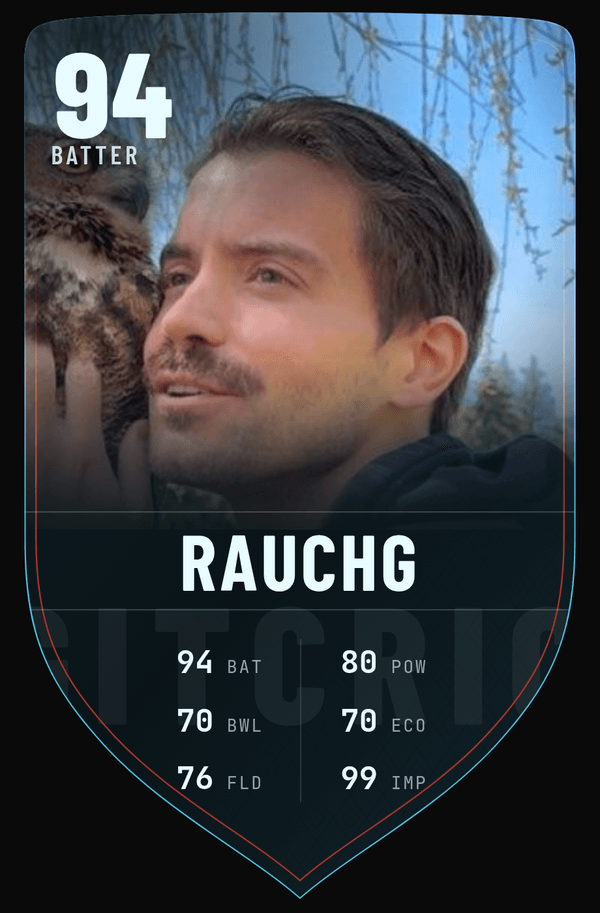
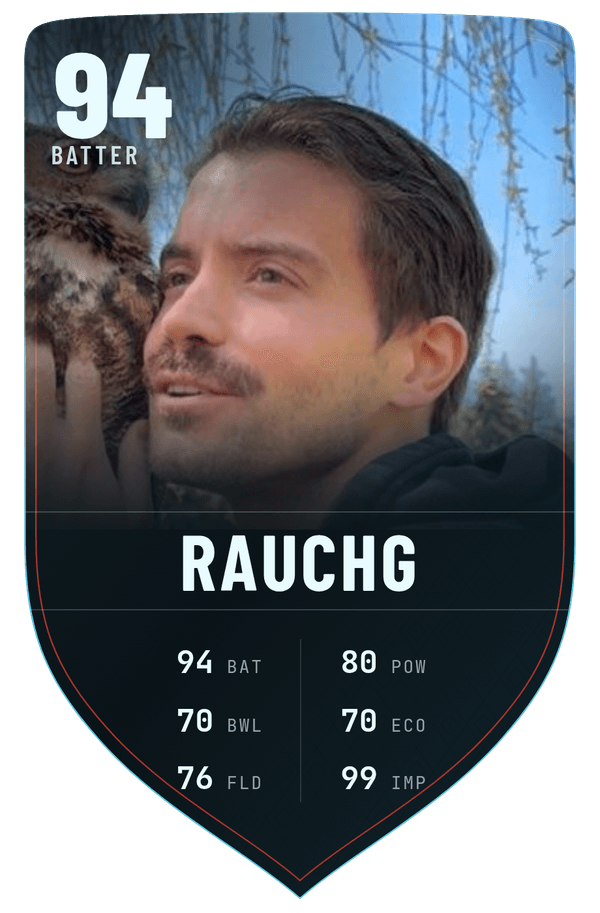
Remove card watermark layer; regenerate README cards with transparent backgrounds
The ghosted lettering behind the stat block was part of the card component, so
it rendered on every live card and the README PNGs merely photographed it.
Removed at source rather than hidden: the <text> node in ShieldBg, its
`watermark` prop, the TRIM_LABEL map that fed it, the .gc-watermark rule and
the comments describing the layer. Nothing else on the card face changed.

It rendered the format (TEST/ODI/T20I/IPL) on cricketer cards, not just
GITCRIC on user cards, so those lose the cue too — deliberately, to keep one
version of the card. No information goes with it: the format is already named
in the page header line above the card ("TEST · 112 matches").

The README PNGs also had an opaque black rectangle around the die-cut shield.
Cause: globals.css sets an explicit html background, and Playwright's
omitBackground only strips the DEFAULT white — an explicit background still
paints, so #0a0a0b was baked into every capture. Now the background is forced
transparent before the shot. Verified per file by sampling pixel (0,0), which
sits outside the shield path: alpha 0 on all five. Same filenames and 600x913
dimensions, so the README needs no path changes.

Changed region(s): [[0.0, 0.0, 1.0, 1.0]]

diff --git a/web/components/PlayerCard.tsx b/web/components/PlayerCard.tsx
@@ -7,7 +7,7 @@ import { Flag } from "../lib/flags";
  * THE CARD — the jewel. A die-cut CREST/SHIELD (our own geometry, not EA's):
  * near-flat top with sloped shoulders, straight sides, a soft point at the base.
  * The shield path is drawn as a layered SVG background (colorway gradient →
- * tone-on-tone filigree → ghosted watermark → inset frame) AND used as a
+ * tone-on-tone filigree → inset frame) AND used as a
  * clip-path so nothing renders outside the crest. FUT layout grammar on top:
  * huge OVR, role and flag over a full-bleed portrait; a surname band (plus a
  * franchise caption on IPL); six stats in two tight columns. Format, matches and
@@ -15,7 +15,6 @@ import { Flag } from "../lib/flags";
  */
 const LEFT = ["BAT", "BWL", "FLD"] as const;
 const RIGHT = ["POW", "ECO", "IMP"] as const;
-const TRIM_LABEL: Record<string, string> = { you: "GITCRIC", test: "TEST", odi: "ODI", t20i: "T20I", ipl: "IPL" };
 
 // ── crest geometry (viewBox 540 × 820) ───────────────────────────────────────
 // Near-flat top w/ sloped shoulders → straight sides → soft point at the base.
@@ -49,7 +48,6 @@ export function PlayerCard({
   const byKey = Object.fromEntries(face.stats.map((s) => [s.key, s.value]));
   const monogram = face.surname.slice(0, 2);
   const portrait = face.photoFile ?? avatarUrl ?? null;
-  const watermark = TRIM_LABEL[face.trim] ?? "GITCRIC";
 
   // Cricketer: override the tier-finish vars with the team colorway (inline
   // style wins over the data-tier/data-trim CSS). YOU: keep the tier finish.
@@ -71,8 +69,8 @@ export function PlayerCard({
       style={cwStyle}
       id={captureId}
     >
-      {/* layered crest background — gradient · filigree · watermark · frame */}
-      <ShieldBg watermark={watermark} tier={face.tier} />
+      {/* layered crest background — gradient · filigree · frame */}
+      <ShieldBg tier={face.tier} />
 
       {/* clip everything to the crest (belt-and-suspenders; the portrait mask
           already keeps the photo well inside the edge) */}
@@ -127,9 +125,9 @@ export function PlayerCard({
   );
 }
 
-/** The layered crest: gradient fill, tone-on-tone filigree, ghosted watermark,
- *  and the inset frame + outer rim that carry the tier/trim treatment. */
-function ShieldBg({ watermark, tier }: { watermark: string; tier: string }) {
+/** The layered crest: gradient fill, tone-on-tone filigree, and the inset
+ *  frame + outer rim that carry the tier/trim treatment. */
+function ShieldBg({ tier }: { tier: string }) {
   return (
     <svg className="gc-shield" viewBox={`0 0 ${W} ${H}`} preserveAspectRatio="none" aria-hidden>
       <defs>
@@ -160,29 +158,6 @@ function ShieldBg({ watermark, tier }: { watermark: string; tier: string }) {
       <path d={SHIELD} fill="url(#gc-fil)" />
       <path d={SHIELD} fill="url(#gc-sheen)" />
 
-      {/* ghosted format mark — sits in the lower crest behind the stats, where
-          the full-bleed portrait can't bury it (FUT hides theirs behind cut-out
-          players; ours are headshots) */}
-      <text
-        className="gc-watermark"
-        x={W / 2}
-        y={612}
-        textAnchor="middle"
-        dominantBaseline="middle"
-        // Inline, not via the CSS class alone — same reason as the frame stroke
-        // below: html-to-image doesn't carry class-based styling on SVG children
-        // into the PNG, and the watermark was exporting at the default ~16px.
-        style={{
-          fontFamily: "var(--font-display)",
-          fontWeight: 800,
-          fontSize: 150,
-          letterSpacing: "0.12em",
-          fill: "var(--ink)",
-          opacity: 0.06,
-        }}
-      >
-        {watermark}
-      </text>
 
       {/* inset frame line (trim) — follows the crest, ~11px in. Stroke is set
           inline (not via CSS class) so html-to-image inlines it into the PNG. */}

diff --git a/web/app/globals.css b/web/app/globals.css
@@ -118,8 +118,8 @@ body {
 
 /* ═══════════════════════════════════════════════════════════════════════════
    THE CARD — the jewel. A die-cut CREST/SHIELD (our own geometry). Layered
-   depth: colorway gradient → tone-on-tone filigree → ghosted watermark → inset
-   frame → portrait → content, all cut to the crest by an SVG clip-path. Tier
+   depth: colorway gradient → tone-on-tone filigree → inset frame → portrait →
+   content, all cut to the crest by an SVG clip-path. Tier
    finishes and per-format trim live here and nowhere else; the card is the
    sanctioned exception to the page's no-gradient rule.
    ═══════════════════════════════════════════════════════════════════════════ */
@@ -148,14 +148,6 @@ body {
   height: 100%;
   display: block;
   z-index: 0;
-}
-.gc-watermark {
-  font-family: var(--font-display);
-  font-weight: 800;
-  font-size: 150px;
-  letter-spacing: 0.12em;
-  fill: var(--ink);
-  opacity: 0.06;
 }
 .gc-frame {
   stroke: color-mix(in srgb, var(--trim) 78%, transparent);
